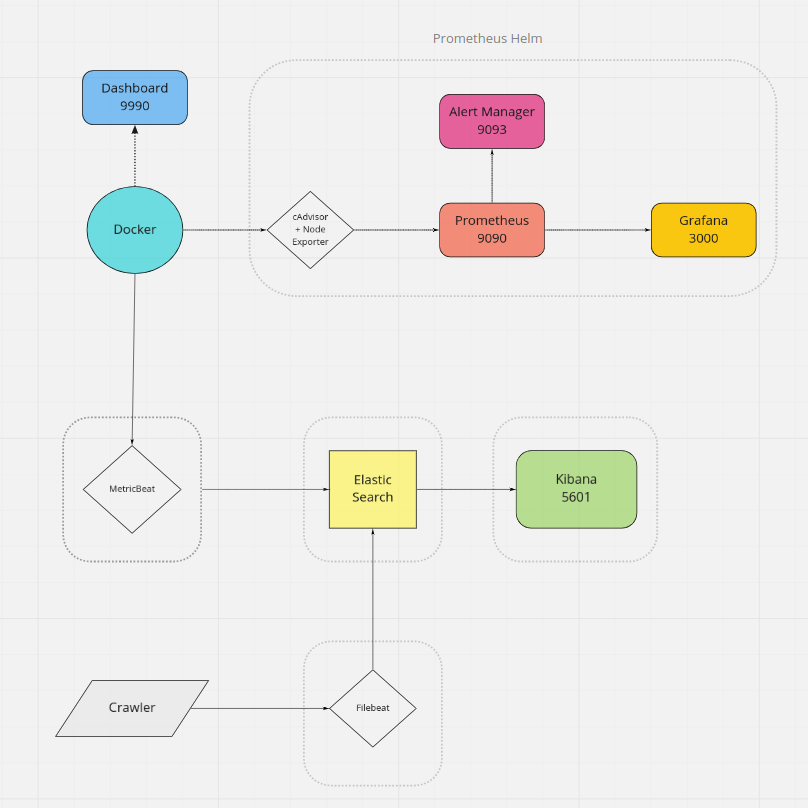
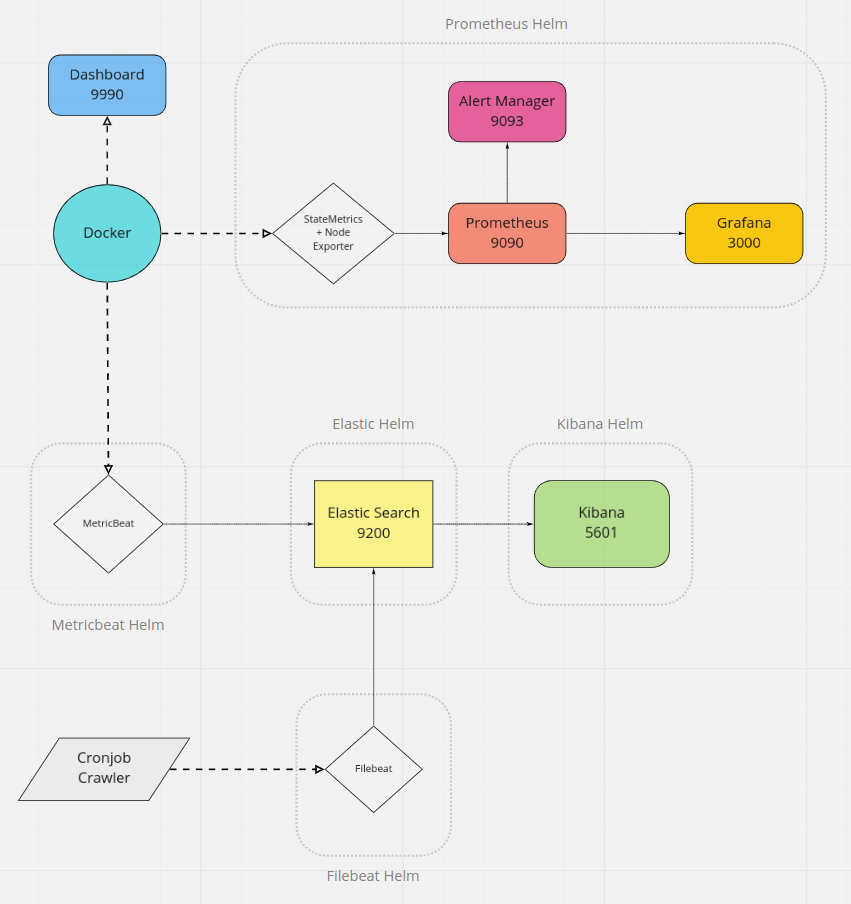
Readme, chart and hotfixes

diff --git a/README.md b/README.md
@@ -1,0 +1,25 @@
+# Vacation Rental Analyzer
+VRA is a crawler that can get information on room vacancy from a list of Airbnb room numbers, then, ideally, analyze this data through the use of microservices such as Kibana. Helm artifacts were used for most of the structure of the project.
+
+Project started as docker-compose, became a GKE cluster with manually configured builds, which then were readapted into custom Helm charts, then resignated into using Helm artifacts with custom values due to intercommunication issues, but lost a considerable amount of control in the way.
+
+# Architecture
+![](chart.png)
+
+# Setup
+
+1. Prepare a Docker environment with kubectl and helm
+
+2. Execute the script:  
+
+    ```./setup.sh```
+
+3. Access Kibana on http://localhost:5601/
+
+4. Prepare the metrics and go to the Discover page
+
+# Helms
+
+Project uses a local version of [kube-prometheus-stack](https://artifacthub.io/packages/helm/prometheus-community/kube-prometheus-stack/10.0.1) with Prometheus, Grafana, AlertManager and more.  
+
+Helm artifacts from [elastic](https://helm.elastic.co) for Elastic Search, Kibana, FileBeat and MetricBeat also were used.
